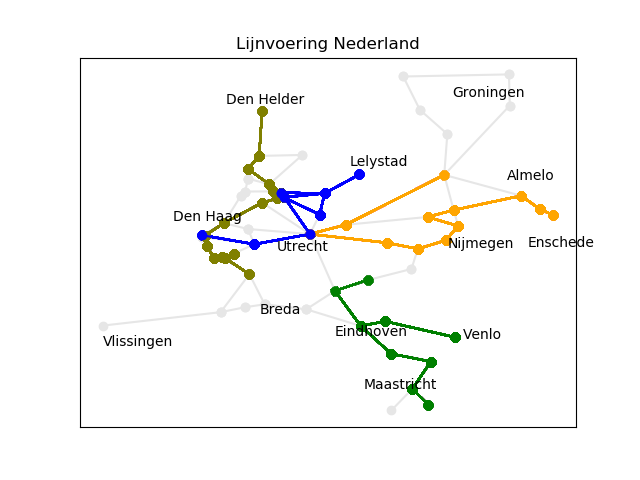
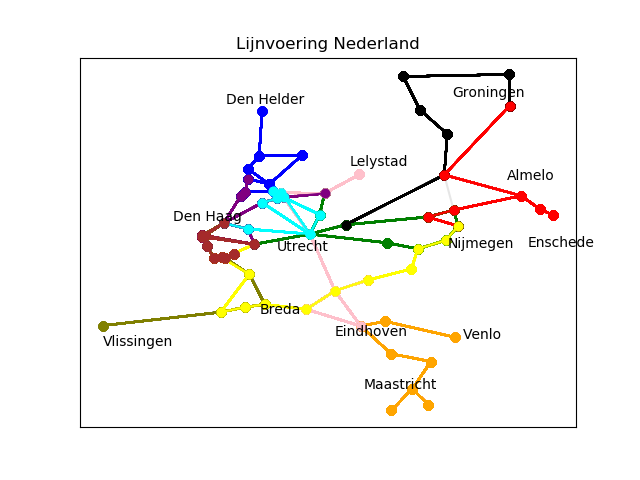
'h'

diff --git a/RailNL/Code/functies/functies.py b/RailNL/Code/functies/functies.py
@@ -41,6 +41,23 @@ class Trein(object):
         if not verbinding1 in sporen and not verbinding2 in sporen:
             sporen.append(verbinding1)
         
+        
+    # Random kiezen, nog te maken!
+    def opties1(self, sporen, graph, trajecten_algemeen, huidig_station):
+    
+        richtingen = graph[huidig_station]
+        for row in stations_niet_aangetikt: 
+            if int(row[1][0]) <= beste_tijd:
+                beste_tijd = int(row[1][0])
+                beste_station = row[0][0] 
+
+    
+        # Voeg best gekozen station toe aan trajecten.     
+        trajecten_algemeen.append(beste_station)
+        return beste_station, beste_tijd
+                
+        
+        print(richtingen)
          
     # Deze functie maakt de beslissing welk spoor er wordt genomen.  
     def opties(self, sporen, graph, trajecten_algemeen, huidig_station):

diff --git a/RailNL/Code/algo/hillclimber.py b/RailNL/Code/algo/hillclimber.py
@@ -18,7 +18,7 @@ def hillclimber(score1, alle_trajecten1, alle_tijdsduur1, HILL, RANGE, MAX, stat
         
         for i in range (RANGE):
 
-            START = algo.start.kies_start2(sporen, verbindingen, uithoeken, trajecten_algemeen, stations)
+            START = algo.start.kies_start3(sporen, verbindingen, uithoeken, trajecten_algemeen, stations)
             z = START
             trein = functies.functies.Trein([START], [START], [z], 0)    
 

diff --git a/RailNL/Code/main.py b/RailNL/Code/main.py
@@ -18,7 +18,7 @@ start_time = time.clock()
 
 # AANTAL ITERATIES VAN DE HILLCLIMBER
 
-HILL = 100
+HILL = 20000
 
 
 
@@ -26,7 +26,7 @@ HILL = 100
 MAX = 180
 
 # AANTAL TRAJECTEN
-RANGE = 4
+RANGE = 11
  
 # Te gebruiken CSV's. 
 STATIONS = 'Data/StationsNationaal.csv'
